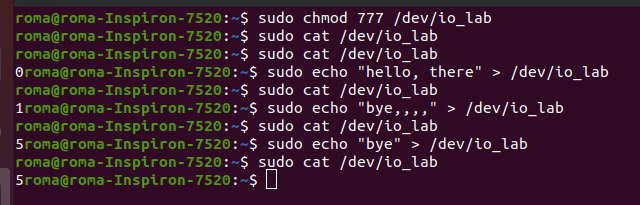
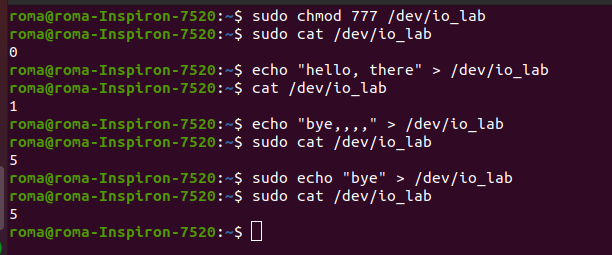
screen_fix

Changed region(s): [[0.0, 0.0, 1.0, 1.0]]

diff --git a/lab1/ch_drv.c b/lab1/ch_drv.c
@@ -52,17 +52,18 @@ static struct file_operations fops = {
 };
 
 static ssize_t my_read(struct file *filp, char __user *buf, size_t len, loff_t *off){
-    int count = strlen(ibuf);
     pr_info("Driver: read()\n");
     u64 i = 0;
     for(i = 0; i < BUF_SIZE;i++)
         ibuf[i] = 0;
-  
+    sprintf(ibuf, "%lld", coma_count);
+    int count = strlen(ibuf);
+    ibuf[count] = '\n';
+    count++;
     if (*off > 0 || len < count) {
         return 0;
     }
-    sprintf(ibuf, "%lld", coma_count);
-    
+
     if (copy_to_user(buf, ibuf, count) != 0) {
         return -EFAULT;
     }

diff --git a/lab1/README.md b/lab1/README.md
@@ -20,9 +20,12 @@ make remove
 ## Инструкция пользователя
 sudo cat /dev/io_lab - открыть символьное устройство
 sudo echo "smth" >> /dev/io_lab - вставить в символьное устройство
+make clean - удалить файлы компиляции из директории
 
 ## Примеры использования
 make install
+sudo chmod 777 /dev/io_lab
+
 sudo cat /dev/io_lab
 
 <font color="green">0</font>
